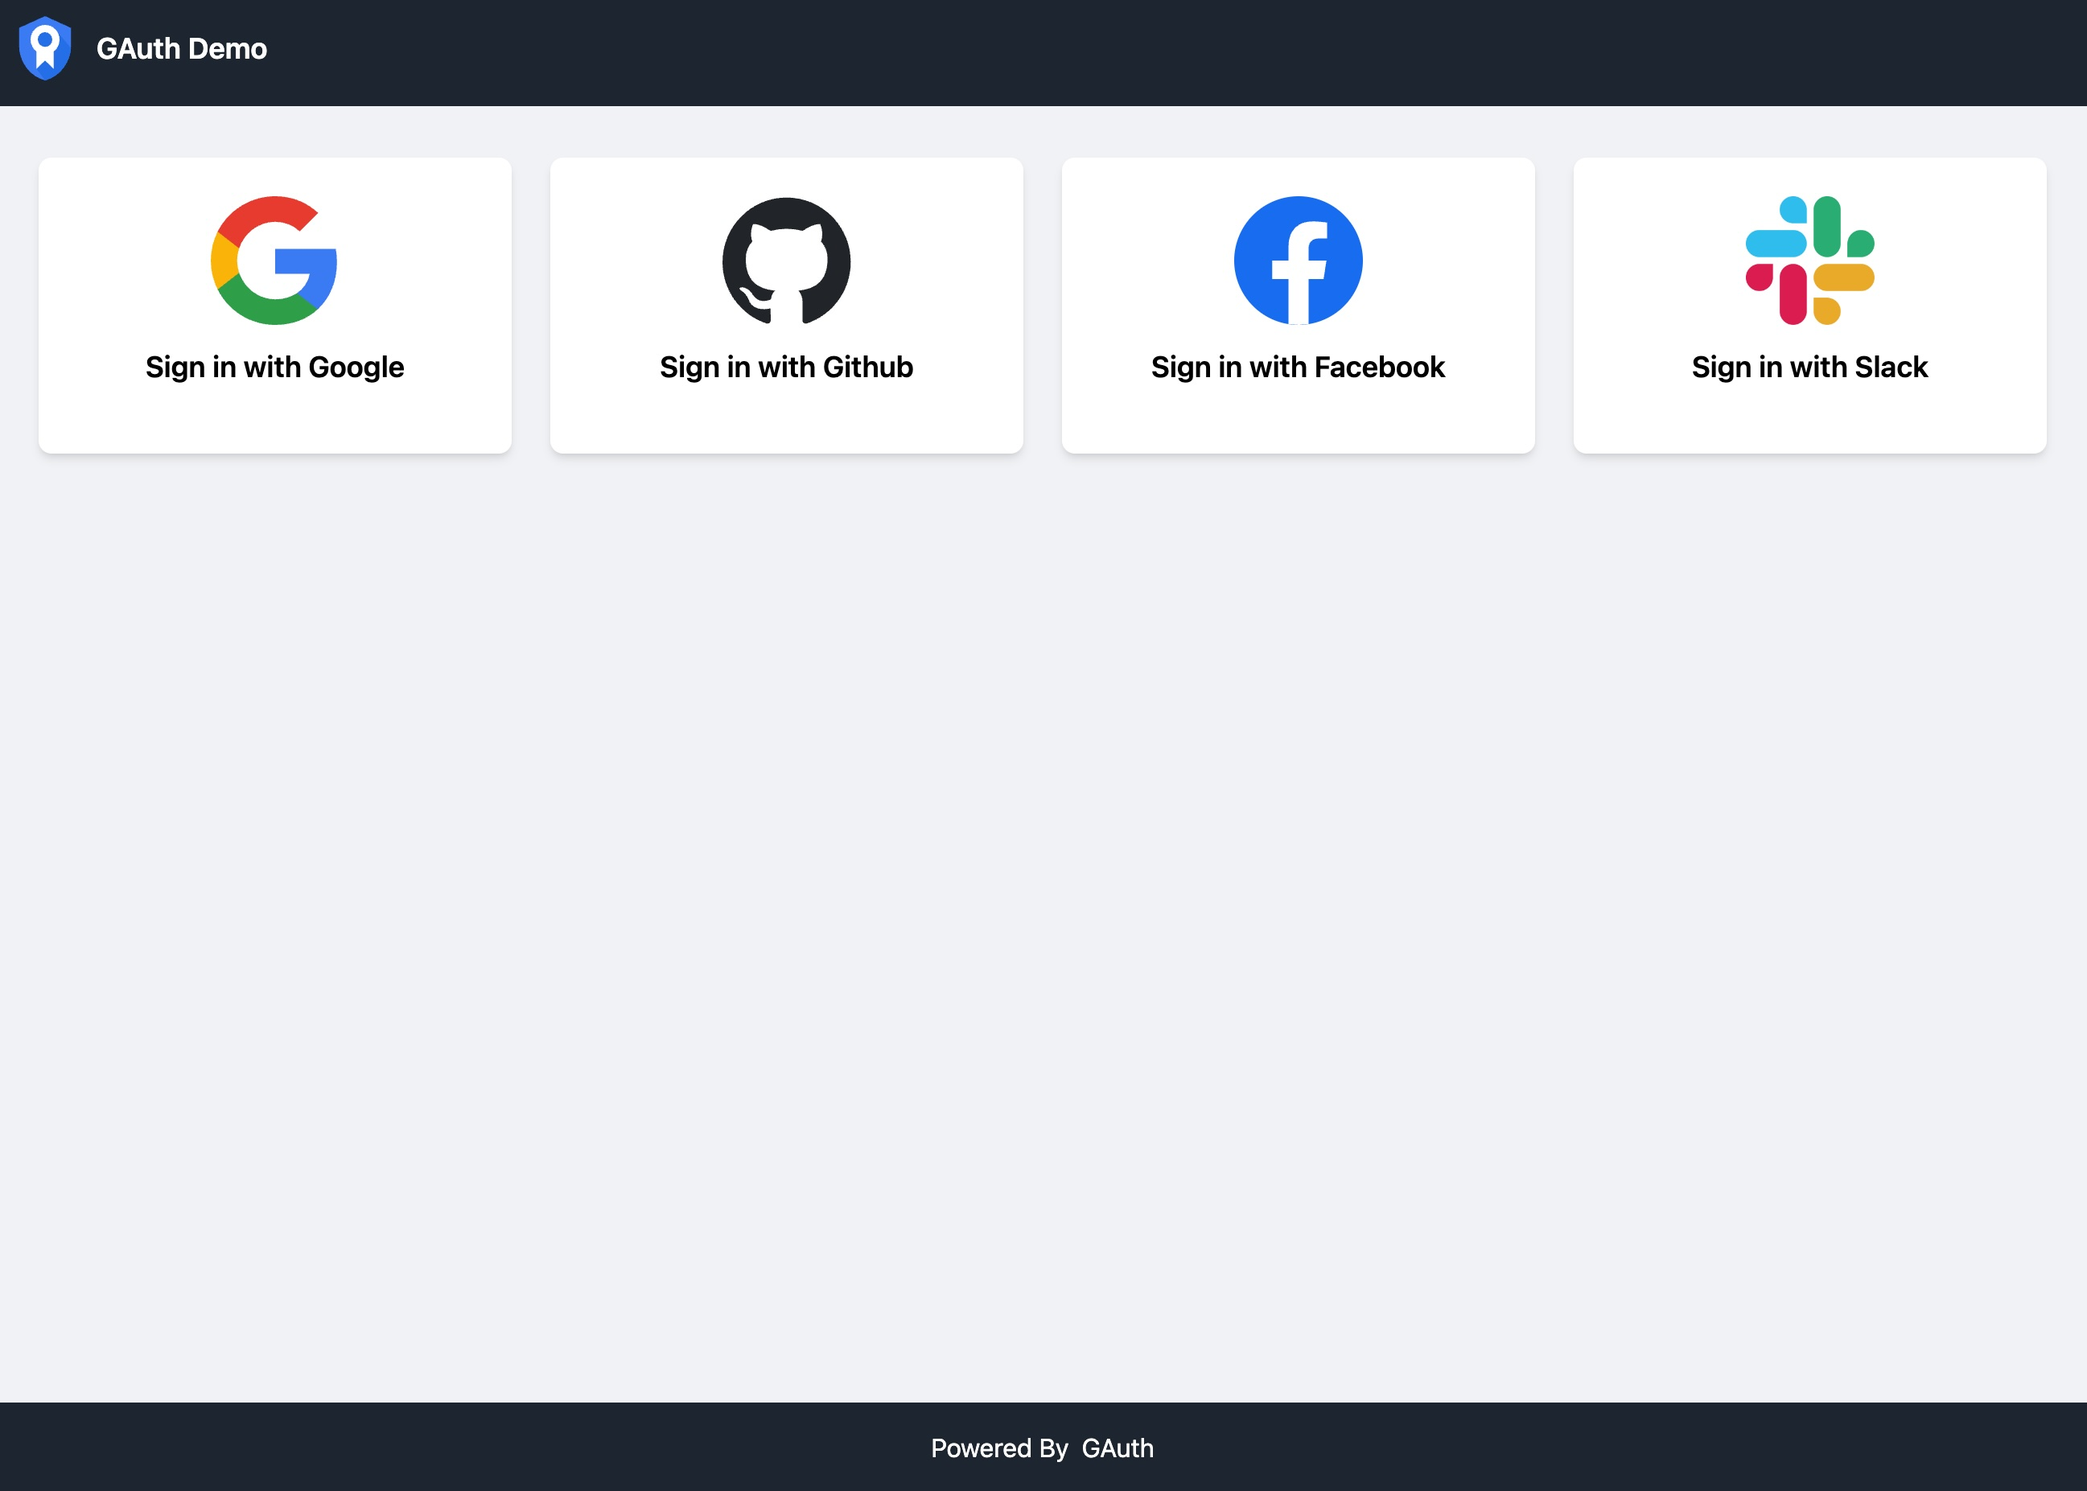
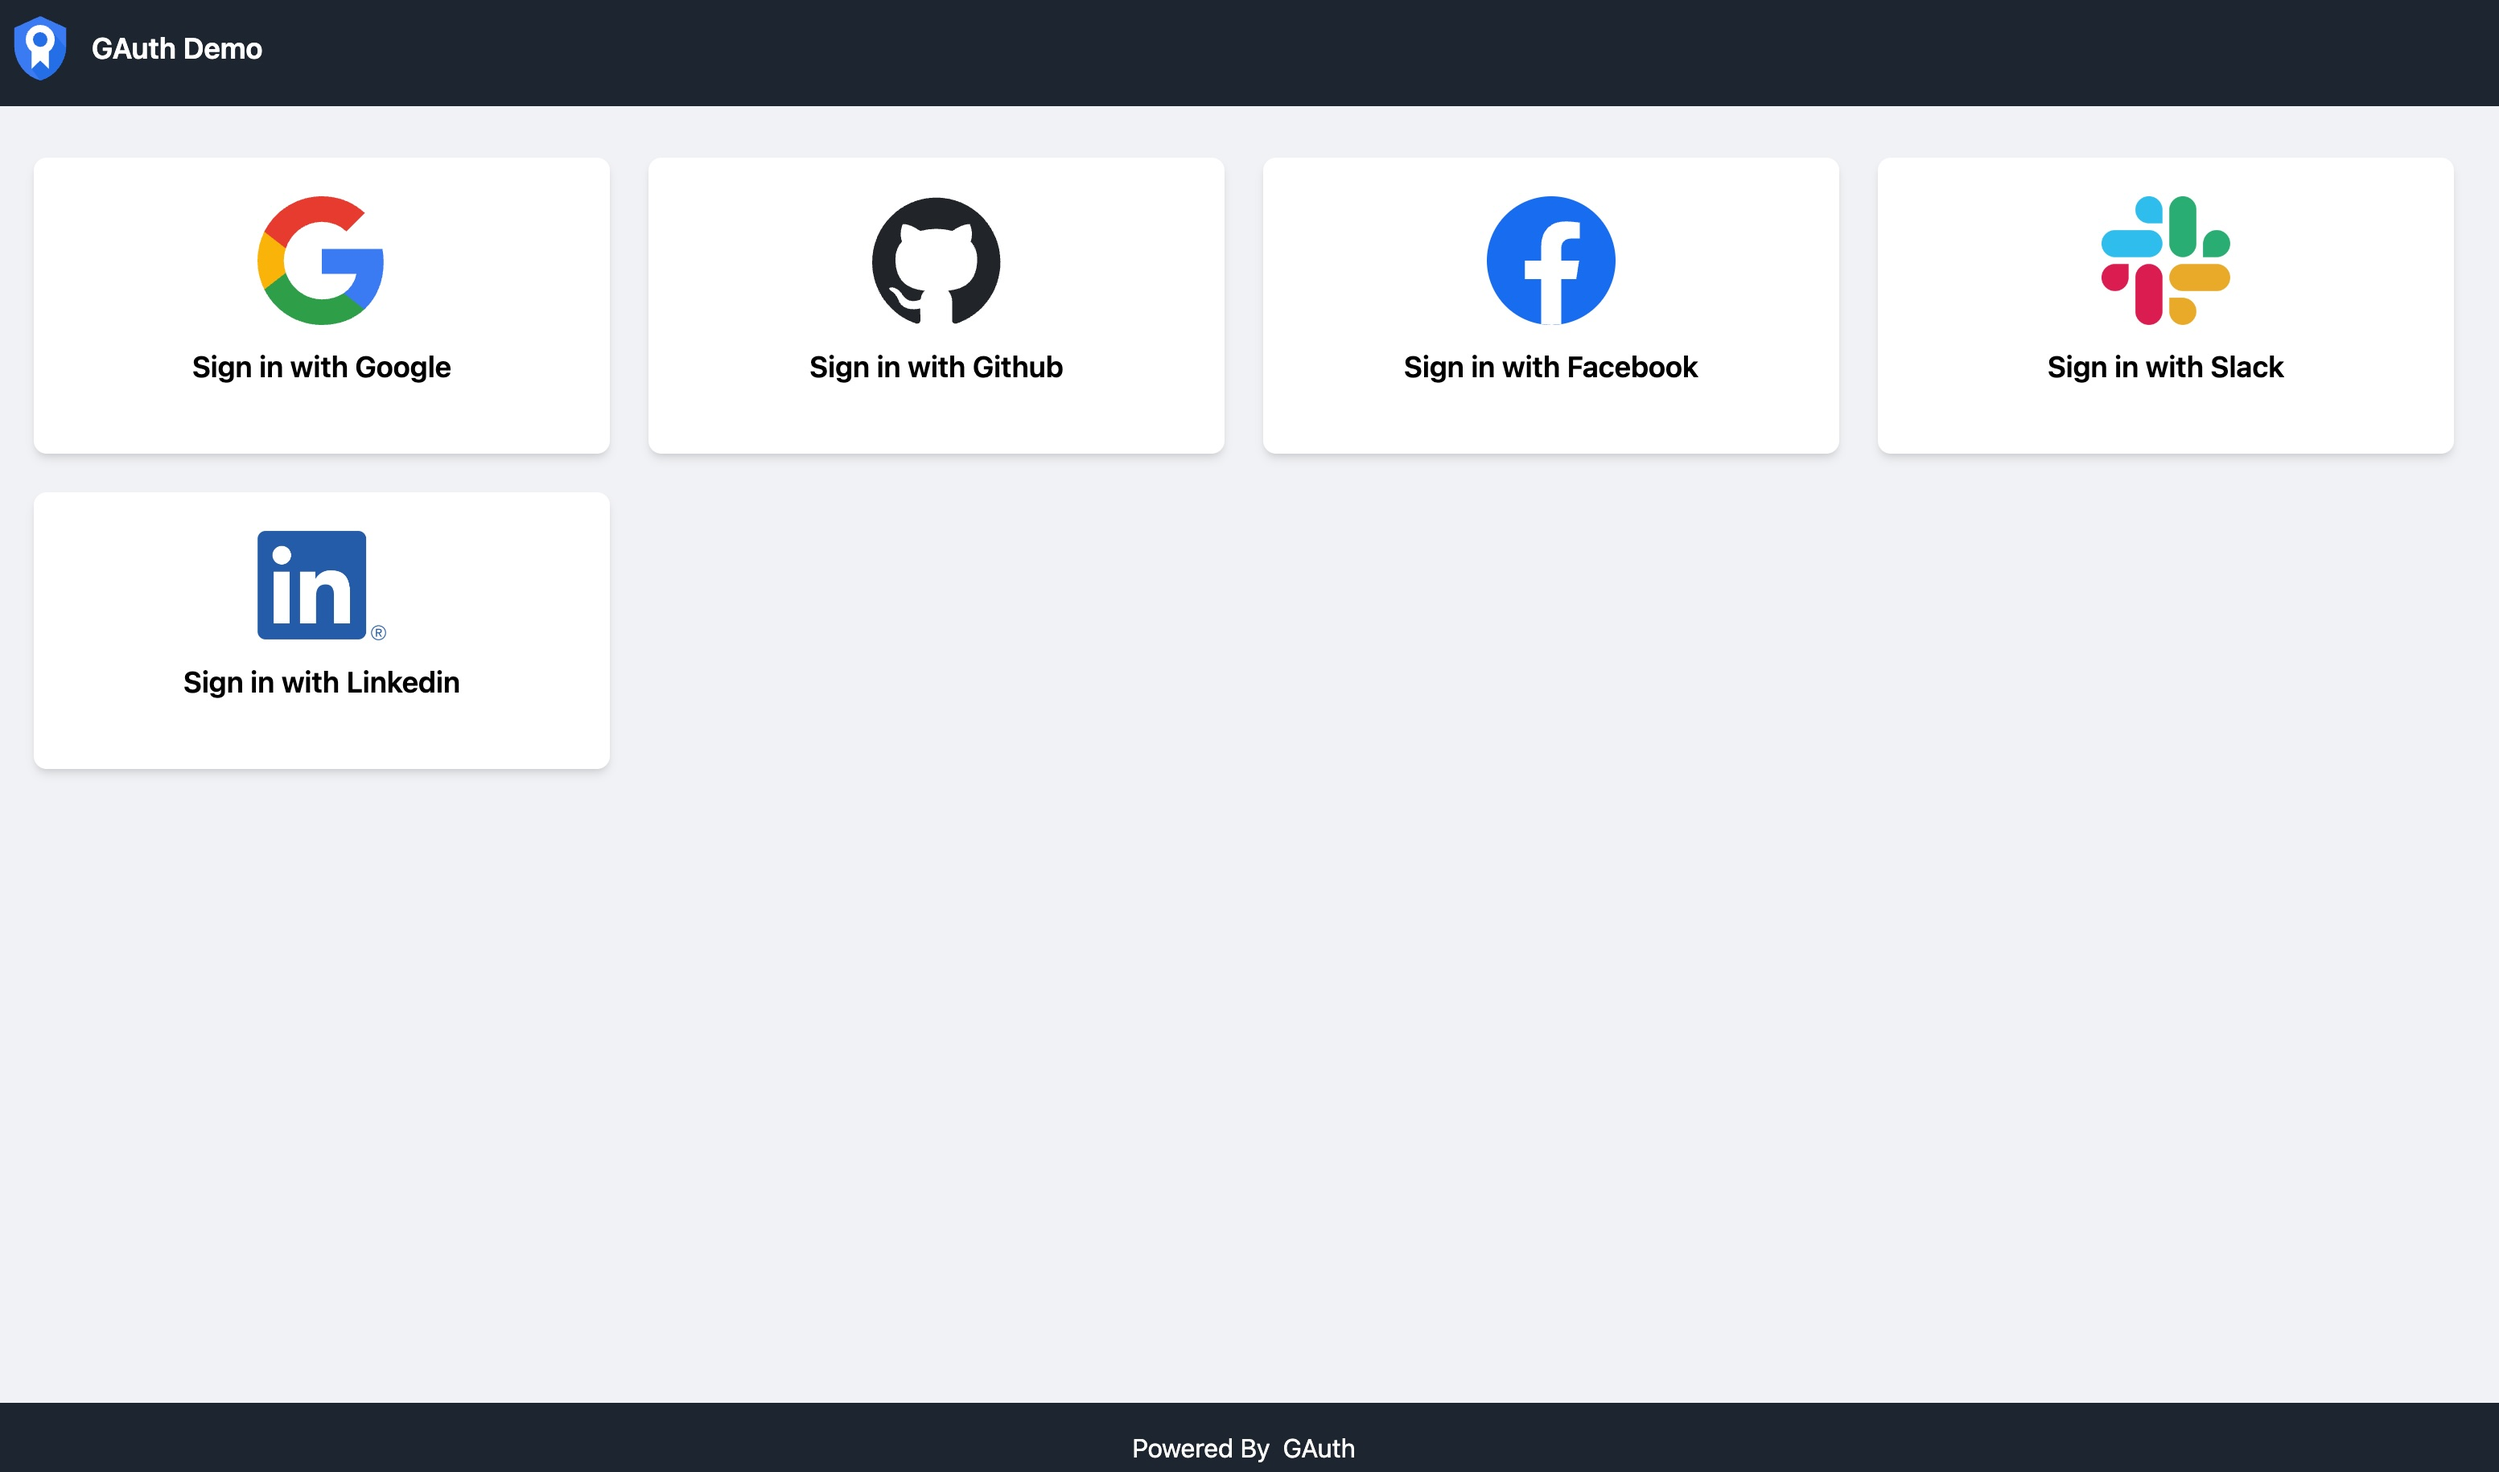
feat:add linkedin demo

diff --git a/main.go b/main.go
@@ -54,6 +54,10 @@ func pickAuthRequest(source string) gauth.AuthRequest {
 		clientId = os.Getenv("SLACK_CLIENT_ID")
 		secret = os.Getenv("SLACK_SECRET")
 		break
+	case "linkedin":
+		clientId = os.Getenv("LINKEDIN_CLIENT_ID")
+		secret = os.Getenv("LINKEDIN_SECRET")
+		break
 	}
 
 	authRequest, err := gauth.New().
